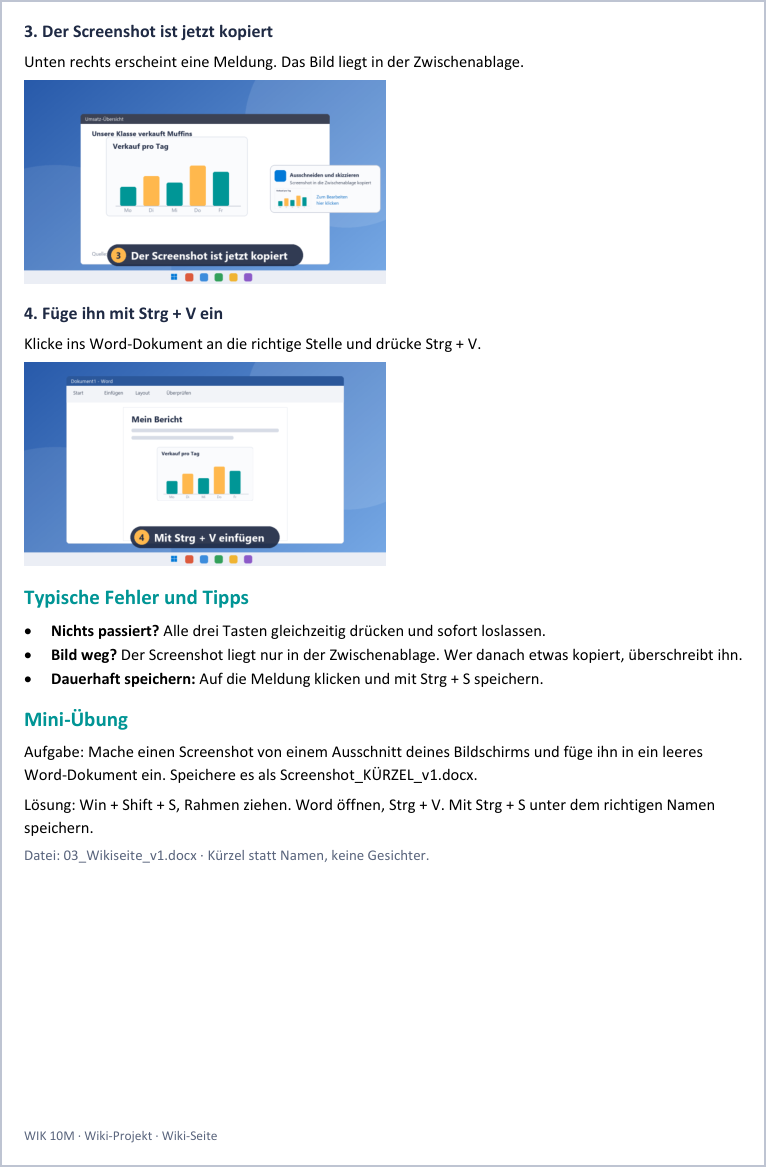
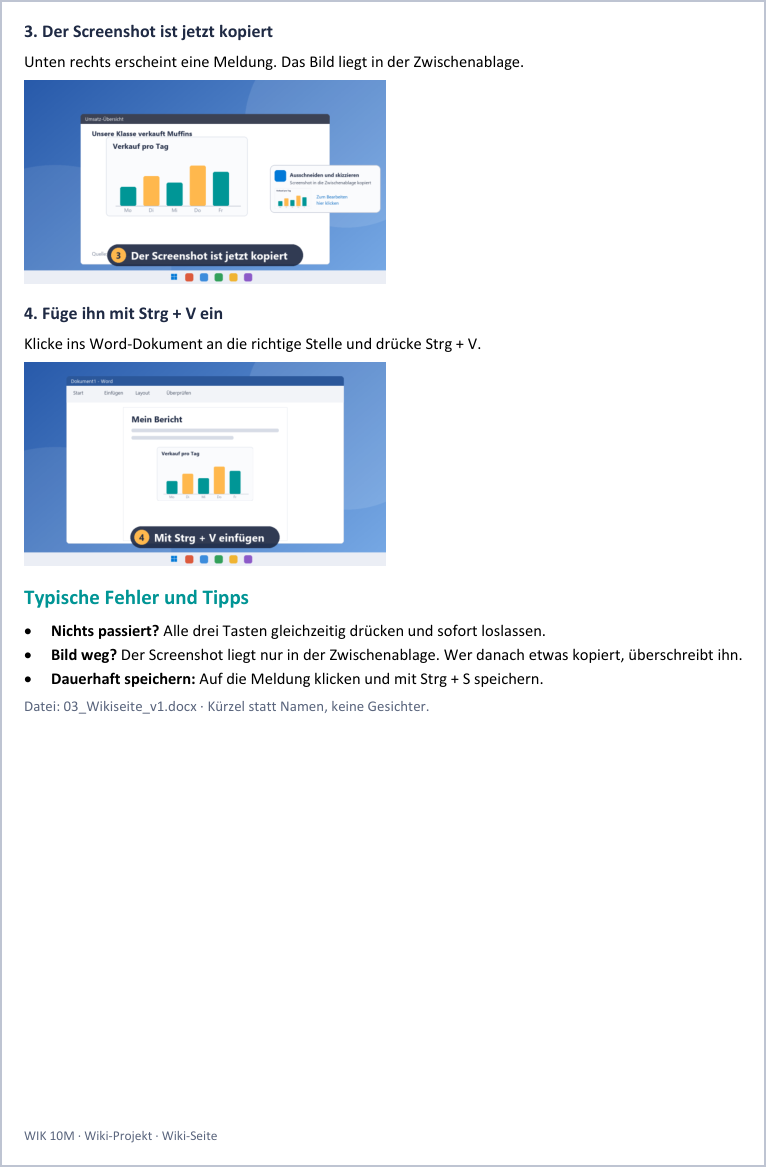
Mini-Übung entfernt: Wiki-Seiten, Vorlage und Beispiel ohne Übungsteil

diff --git a/grundlagen/video-aufnehmen-und-bearbeiten.html b/grundlagen/video-aufnehmen-und-bearbeiten.html
@@ -51,7 +51,7 @@
 <span>1 Aufnehmen</span><i>→</i><span>2 Kürzen</span><i>→</i><span>3 Text einblenden</span><i>→</i><span>4 Als MP4 exportieren</span>
 </div>
 
-<nav class="toc" aria-label="Inhaltsverzeichnis"><b>Inhaltsverzeichnis</b><ol><li><a href="#ueberblick">Überblick</a></li><li><a href="#programm">Welches Programm habe ich?</a></li><li><a href="#aufnehmen">Aufnehmen</a></li><li><a href="#bearbeiten">Bearbeiten</a></li><li><a href="#exportieren">Exportieren</a></li><li><a href="#probleme">Typische Probleme</a></li><li><a href="#uebung">Übung</a></li><li><a href="#siehe-auch">Siehe auch</a></li><li><a href="#belege">Einzelnachweise</a></li></ol></nav>
+<nav class="toc" aria-label="Inhaltsverzeichnis"><b>Inhaltsverzeichnis</b><ol><li><a href="#ueberblick">Überblick</a></li><li><a href="#programm">Welches Programm habe ich?</a></li><li><a href="#aufnehmen">Aufnehmen</a></li><li><a href="#bearbeiten">Bearbeiten</a></li><li><a href="#exportieren">Exportieren</a></li><li><a href="#probleme">Typische Probleme</a></li><li><a href="#siehe-auch">Siehe auch</a></li><li><a href="#belege">Einzelnachweise</a></li></ol></nav>
 
 <h2 id="programm"><span class="n">1</span> Welches Programm habe ich?</h2>
 <p>Drücke die <kbd>Windows</kbd>-Taste und tippe den Namen des Programms ein. Wenn es in der Liste erscheint, kannst du es nutzen. Probiere es vor dem Dreh kurz aus: 10 Sekunden aufnehmen, speichern, abspielen.</p>
@@ -104,15 +104,7 @@
 <li><b>Aufnahmebereich zu groß?</b> Wähle nur den Teil, den man für den Schritt braucht. Dann ist der Text lesbar.</li>
 </ul>
 
-<h2 id="uebung"><span class="n">6</span> Übung</h2>
-<p><b>Aufgabe:</b> Nimm 10 Sekunden von deinem Bildschirm auf, kürze das Video auf 5 Sekunden, blende den Text „Test“ ein und exportiere es als <code>Test_KÜRZEL_v1.mp4</code>.</p>
-<details><summary>Lösung anzeigen</summary>
-<ol><li>In PowerPoint: Einfügen → Bildschirmaufzeichnung, Bereich wählen, aufnehmen, mit <kbd>Win</kbd> + <kbd>Shift</kbd> + <kbd>Q</kbd> beenden.</li>
-<li>Video anklicken → Wiedergabe → <i>Video kürzen</i>, Ende auf 5 Sekunden ziehen.</li>
-<li>Einfügen → Textfeld „Test“, Animation → Erscheinen.</li>
-<li>Datei → Speichern. Dann Datei → Exportieren → Video erstellen → HD (720p), speichern als <code>Test_KÜRZEL_v1.mp4</code>.</li></ol></details>
-
-<h2 id="siehe-auch"><span class="n">7</span> Siehe auch</h2>
+<h2 id="siehe-auch"><span class="n">6</span> Siehe auch</h2>
 <ul>
 <li><a href="../grundlagen/video-tutorial.html">Video-Tutorial</a>: die Anforderungen</li>
 <li><a href="../grundlagen/videos-schneiden-mit-freecut.html">Videos schneiden mit FreeCut</a></li>
@@ -121,7 +113,7 @@
 <li><a class="new" href="../themen/datei-in-teams-hochladen.html" title="Noch leer: Aufgabe ansehen">Datei in Teams hochladen</a></li>
 </ul>
 
-<h2 id="belege"><span class="n">8</span> Einzelnachweise</h2>
+<h2 id="belege"><span class="n">7</span> Einzelnachweise</h2>
 <ol class="refs">
 <li><a href="https://support.microsoft.com/de-de/powerpoint/training/record-your-screen-in-powerpoint" rel="noopener">Bildschirmaufzeichnung in PowerPoint</a> – Microsoft Support</li>
 <li><a href="https://support.microsoft.com/de-de/powerpoint/trim-a-video-music-clip-or-sound-clip-in-powerpoint" rel="noopener">Kürzen eines Videos, Musik- oder Soundclips in PowerPoint</a> – Microsoft Support</li>

diff --git a/grundlagen/wiki-seite-schreiben.html b/grundlagen/wiki-seite-schreiben.html
@@ -64,7 +64,6 @@
 <tr><td><b>Video</b></td><td>Überschrift 2</td><td>Dateiname <code>02_Video_v1.mp4</code> und die Länge in Sekunden.</td></tr>
 <tr><td><b>Schritt für Schritt</b></td><td>Überschrift 2</td><td>3 bis 6 Schritte. Jeder Schritt hat eine Überschrift <b>(Überschrift 3)</b> mit Nummer, <b>1 bis 2 Sätze</b> und <b>ein Bild</b>.</td></tr>
 <tr><td><b>Typische Fehler und Tipps</b></td><td>Überschrift 2</td><td><b>Mindestens 2</b> Punkte als Aufzählung. Beginne jeden Punkt fett mit einer Frage, zum Beispiel „Nichts passiert?“.</td></tr>
-<tr><td><b>Mini-Übung</b></td><td>Überschrift 2</td><td>Eine <b>Aufgabe</b> und die <b>Lösung</b> dazu, jeweils in einem Absatz.</td></tr>
 <tr><td><b>Schlusszeile</b></td><td>Normal</td><td><i>Datei: 03_Wikiseite_v1.docx · Kürzel statt Namen, keine Gesichter.</i></td></tr>
 </table>
 
@@ -82,7 +81,7 @@
 <h2 id="beispiel"><span class="n">4</span> Beispiel</h2>
 <p>Die Beispielseite zu „Screenshot erstellen“ hat zwei Seiten und genau diesen Aufbau:</p>
 <figure class="thumb doc"><a href="assets/dok-wikiseite-beispiel-1.png"><img src="assets/dok-wikiseite-beispiel-1.png" alt="Wiki-Seite Screenshot erstellen, Seite 1 mit Titel, Kurzbeschreibung, Video und zwei Schritten" loading="lazy"></a><figcaption>Beispiel, Seite 1: Titel, Kurzbeschreibung, Video, Schritte 1 und 2.</figcaption></figure>
-<figure class="thumb doc"><a href="assets/dok-wikiseite-beispiel-2.png"><img src="assets/dok-wikiseite-beispiel-2.png" alt="Wiki-Seite Screenshot erstellen, Seite 2 mit Schritten 3 und 4, Fehlern und Mini-Übung" loading="lazy"></a><figcaption>Beispiel, Seite 2: Schritte 3 und 4, typische Fehler, Mini-Übung.</figcaption></figure>
+<figure class="thumb doc"><a href="assets/dok-wikiseite-beispiel-2.png"><img src="assets/dok-wikiseite-beispiel-2.png" alt="Wiki-Seite Screenshot erstellen, Seite 2 mit Schritten 3 und 4 und typischen Fehlern" loading="lazy"></a><figcaption>Beispiel, Seite 2: Schritte 3 und 4, typische Fehler und Tipps.</figcaption></figure>
 <p>Zum Herunterladen: <a href="../downloads/Beispiel_03_Wikiseite_v1.docx" download>Beispiel_03_Wikiseite_v1.docx</a>. Die fertig gebaute Seite im Wiki siehst du bei <a href="screenshot-erstellen.html">Screenshot erstellen</a>.</p>
 
 <h2 id="checkliste"><span class="n">5</span> Checkliste</h2>
@@ -93,7 +92,6 @@
 <li>Im Abschnitt Video stehen Dateiname und Länge.</li>
 <li>3 bis 6 Schritte, jeder mit Überschrift, 1 bis 2 Sätzen und einem Bild.</li>
 <li>Mindestens 2 typische Fehler.</li>
-<li>Eine Mini-Übung mit Aufgabe und Lösung.</li>
 <li>Höchstens 2 Seiten, Rechtschreibung geprüft.</li>
 <li>Keine Namen, Passwörter oder Gesichter in Text und Bildern.</li>
 <li>Die Datei heißt <code>03_Wikiseite_v1.docx</code> und liegt in deinem Ordner in Teams.</li>

diff --git a/grundlagen/screenshot-erstellen.html b/grundlagen/screenshot-erstellen.html
@@ -47,7 +47,7 @@
 
 <p id="ueberblick"><b>Ein Screenshot</b> (auch <i>Bildschirmfoto</i>) ist ein Bild von dem, was gerade auf dem Bildschirm zu sehen ist. Mit dem Tastenkürzel <kbd>Win</kbd> + <kbd>Shift</kbd> + <kbd>S</kbd> kannst du einen Ausschnitt aufnehmen und ihn danach in ein Dokument einfügen, zum Beispiel in <a class="new" href="../kategorie/word.html" title="Bereich Word">Word</a> oder in eine <a href="../grundlagen/screenshot-erstellen.html">Wiki-Seite</a>.</p>
 
-<nav class="toc" aria-label="Inhaltsverzeichnis"><b>Inhaltsverzeichnis</b><ol><li><a href="#ueberblick">Überblick</a></li><li><a href="#voraussetzungen">Voraussetzungen</a></li><li><a href="#anleitung">Anleitung</a></li><li><a href="#fehler">Typische Fehler</a></li><li><a href="#uebung">Übung</a></li><li><a href="#siehe-auch">Siehe auch</a></li></ol></nav>
+<nav class="toc" aria-label="Inhaltsverzeichnis"><b>Inhaltsverzeichnis</b><ol><li><a href="#ueberblick">Überblick</a></li><li><a href="#voraussetzungen">Voraussetzungen</a></li><li><a href="#anleitung">Anleitung</a></li><li><a href="#fehler">Typische Fehler</a></li><li><a href="#siehe-auch">Siehe auch</a></li></ol></nav>
 
 <h2 id="voraussetzungen"><span class="n">1</span> Voraussetzungen</h2>
 <p>Du brauchst einen Windows-Rechner (Windows 10 oder 11) und etwas, das du fotografieren willst. Mehr nicht.</p>
@@ -74,14 +74,7 @@
 <li><b>Datenschutz:</b> Auf dem Screenshot dürfen keine Namen, Passwörter oder Gesichter zu sehen sein.</li>
 </ul>
 
-<h2 id="uebung"><span class="n">4</span> Übung</h2>
-<p><b>Aufgabe:</b> Mache einen Screenshot von einem Ausschnitt deines Bildschirms und füge ihn in ein leeres Word-Dokument ein. Speichere es als <code>Screenshot_KÜRZEL_v1.docx</code>.</p>
-<details><summary>Lösung anzeigen</summary>
-<ol><li><kbd>Win</kbd> + <kbd>Shift</kbd> + <kbd>S</kbd> drücken und Rahmen ziehen.</li>
-<li>Word öffnen, ins leere Dokument klicken, <kbd>Strg</kbd> + <kbd>V</kbd>.</li>
-<li>Mit <kbd>Strg</kbd> + <kbd>S</kbd> unter dem richtigen Namen speichern (Kürzel statt Namen).</li></ol></details>
-
-<h2 id="siehe-auch"><span class="n">5</span> Siehe auch</h2>
+<h2 id="siehe-auch"><span class="n">4</span> Siehe auch</h2>
 <ul>
 <li><a href="../grundlagen/video-aufnehmen-und-bearbeiten.html">Video aufnehmen und bearbeiten</a></li>
 <li><a class="new" href="../themen/datei-richtig-benennen.html" title="Noch leer: Aufgabe ansehen">Datei richtig benennen</a></li>

diff --git a/themen/kopieren-ausschneiden-einfuegen.html b/themen/kopieren-ausschneiden-einfuegen.html
@@ -56,7 +56,7 @@
 <li>Thema in die Liste „Wiki-Status“ eingetragen</li>
 <li>Video-Planung geschrieben: <code>01_Videoplanung_v1.docx</code></li>
 <li>Kurzes Erklärvideo, ohne Ton, mit Texteinblendungen: <code>02_Video_v1.mp4</code></li>
-<li>Wiki-Seite nach Vorlage mit Kurzbeschreibung, Schritten mit Bildern, mindestens zwei typischen Fehlern und einer Mini-Übung mit Lösung: <code>03_Wikiseite_v1.docx</code></li>
+<li>Wiki-Seite nach Vorlage mit Kurzbeschreibung, Schritten mit Bildern, mindestens zwei typischen Fehlern: <code>03_Wikiseite_v1.docx</code></li>
 <li>Kürzel statt Namen, keine Gesichter, keine Passwörter im Bild</li>
 <li>In Teams im Ordner WIKI abgelegt, zum Beispiel <code>WIKI/Windows_Kopieren-Einfuegen_AB-CD/</code></li>
 <li>Status in der Liste auf „fertig“ gesetzt</li>

diff --git a/themen/ordner-anlegen-und-datei-speichern.html b/themen/ordner-anlegen-und-datei-speichern.html
@@ -56,7 +56,7 @@
 <li>Thema in die Liste „Wiki-Status“ eingetragen</li>
 <li>Video-Planung geschrieben: <code>01_Videoplanung_v1.docx</code></li>
 <li>Kurzes Erklärvideo, ohne Ton, mit Texteinblendungen: <code>02_Video_v1.mp4</code></li>
-<li>Wiki-Seite nach Vorlage mit Kurzbeschreibung, Schritten mit Bildern, mindestens zwei typischen Fehlern und einer Mini-Übung mit Lösung: <code>03_Wikiseite_v1.docx</code></li>
+<li>Wiki-Seite nach Vorlage mit Kurzbeschreibung, Schritten mit Bildern, mindestens zwei typischen Fehlern: <code>03_Wikiseite_v1.docx</code></li>
 <li>Kürzel statt Namen, keine Gesichter, keine Passwörter im Bild</li>
 <li>In Teams im Ordner WIKI abgelegt, zum Beispiel <code>WIKI/Windows_Ordner-speichern_AB-CD/</code></li>
 <li>Status in der Liste auf „fertig“ gesetzt</li>

diff --git a/themen/zellen-formatieren.html b/themen/zellen-formatieren.html
@@ -56,7 +56,7 @@
 <li>Thema in die Liste „Wiki-Status“ eingetragen</li>
 <li>Video-Planung geschrieben: <code>01_Videoplanung_v1.docx</code></li>
 <li>Kurzes Erklärvideo, ohne Ton, mit Texteinblendungen: <code>02_Video_v1.mp4</code></li>
-<li>Wiki-Seite nach Vorlage mit Kurzbeschreibung, Schritten mit Bildern, mindestens zwei typischen Fehlern und einer Mini-Übung mit Lösung: <code>03_Wikiseite_v1.docx</code></li>
+<li>Wiki-Seite nach Vorlage mit Kurzbeschreibung, Schritten mit Bildern, mindestens zwei typischen Fehlern: <code>03_Wikiseite_v1.docx</code></li>
 <li>Kürzel statt Namen, keine Gesichter, keine Passwörter im Bild</li>
 <li>In Teams im Ordner WIKI abgelegt, zum Beispiel <code>WIKI/Excel_Zellen-formatieren_AB-CD/</code></li>
 <li>Status in der Liste auf „fertig“ gesetzt</li>

diff --git a/themen/neue-folie-und-layout.html b/themen/neue-folie-und-layout.html
@@ -56,7 +56,7 @@
 <li>Thema in die Liste „Wiki-Status“ eingetragen</li>
 <li>Video-Planung geschrieben: <code>01_Videoplanung_v1.docx</code></li>
 <li>Kurzes Erklärvideo, ohne Ton, mit Texteinblendungen: <code>02_Video_v1.mp4</code></li>
-<li>Wiki-Seite nach Vorlage mit Kurzbeschreibung, Schritten mit Bildern, mindestens zwei typischen Fehlern und einer Mini-Übung mit Lösung: <code>03_Wikiseite_v1.docx</code></li>
+<li>Wiki-Seite nach Vorlage mit Kurzbeschreibung, Schritten mit Bildern, mindestens zwei typischen Fehlern: <code>03_Wikiseite_v1.docx</code></li>
 <li>Kürzel statt Namen, keine Gesichter, keine Passwörter im Bild</li>
 <li>In Teams im Ordner WIKI abgelegt, zum Beispiel <code>WIKI/PowerPoint_Neue-Folie_AB-CD/</code></li>
 <li>Status in der Liste auf „fertig“ gesetzt</li>

diff --git a/themen/animation-erscheinen.html b/themen/animation-erscheinen.html
@@ -56,7 +56,7 @@
 <li>Thema in die Liste „Wiki-Status“ eingetragen</li>
 <li>Video-Planung geschrieben: <code>01_Videoplanung_v1.docx</code></li>
 <li>Kurzes Erklärvideo, ohne Ton, mit Texteinblendungen: <code>02_Video_v1.mp4</code></li>
-<li>Wiki-Seite nach Vorlage mit Kurzbeschreibung, Schritten mit Bildern, mindestens zwei typischen Fehlern und einer Mini-Übung mit Lösung: <code>03_Wikiseite_v1.docx</code></li>
+<li>Wiki-Seite nach Vorlage mit Kurzbeschreibung, Schritten mit Bildern, mindestens zwei typischen Fehlern: <code>03_Wikiseite_v1.docx</code></li>
 <li>Kürzel statt Namen, keine Gesichter, keine Passwörter im Bild</li>
 <li>In Teams im Ordner WIKI abgelegt, zum Beispiel <code>WIKI/PowerPoint_Animation_AB-CD/</code></li>
 <li>Status in der Liste auf „fertig“ gesetzt</li>

diff --git a/themen/datei-in-teams-hochladen.html b/themen/datei-in-teams-hochladen.html
@@ -56,7 +56,7 @@
 <li>Thema in die Liste „Wiki-Status“ eingetragen</li>
 <li>Video-Planung geschrieben: <code>01_Videoplanung_v1.docx</code></li>
 <li>Kurzes Erklärvideo, ohne Ton, mit Texteinblendungen: <code>02_Video_v1.mp4</code></li>
-<li>Wiki-Seite nach Vorlage mit Kurzbeschreibung, Schritten mit Bildern, mindestens zwei typischen Fehlern und einer Mini-Übung mit Lösung: <code>03_Wikiseite_v1.docx</code></li>
+<li>Wiki-Seite nach Vorlage mit Kurzbeschreibung, Schritten mit Bildern, mindestens zwei typischen Fehlern: <code>03_Wikiseite_v1.docx</code></li>
 <li>Kürzel statt Namen, keine Gesichter, keine Passwörter im Bild</li>
 <li>In Teams im Ordner WIKI abgelegt, zum Beispiel <code>WIKI/Windows_Teams-Upload_AB-CD/</code></li>
 <li>Status in der Liste auf „fertig“ gesetzt</li>

diff --git a/themen/daten-eingeben-und-spalten-anpassen.html b/themen/daten-eingeben-und-spalten-anpassen.html
@@ -56,7 +56,7 @@
 <li>Thema in die Liste „Wiki-Status“ eingetragen</li>
 <li>Video-Planung geschrieben: <code>01_Videoplanung_v1.docx</code></li>
 <li>Kurzes Erklärvideo, ohne Ton, mit Texteinblendungen: <code>02_Video_v1.mp4</code></li>
-<li>Wiki-Seite nach Vorlage mit Kurzbeschreibung, Schritten mit Bildern, mindestens zwei typischen Fehlern und einer Mini-Übung mit Lösung: <code>03_Wikiseite_v1.docx</code></li>
+<li>Wiki-Seite nach Vorlage mit Kurzbeschreibung, Schritten mit Bildern, mindestens zwei typischen Fehlern: <code>03_Wikiseite_v1.docx</code></li>
 <li>Kürzel statt Namen, keine Gesichter, keine Passwörter im Bild</li>
 <li>In Teams im Ordner WIKI abgelegt, zum Beispiel <code>WIKI/Excel_Daten-eingeben_AB-CD/</code></li>
 <li>Status in der Liste auf „fertig“ gesetzt</li>

diff --git a/themen/folienuebergang.html b/themen/folienuebergang.html
@@ -56,7 +56,7 @@
 <li>Thema in die Liste „Wiki-Status“ eingetragen</li>
 <li>Video-Planung geschrieben: <code>01_Videoplanung_v1.docx</code></li>
 <li>Kurzes Erklärvideo, ohne Ton, mit Texteinblendungen: <code>02_Video_v1.mp4</code></li>
-<li>Wiki-Seite nach Vorlage mit Kurzbeschreibung, Schritten mit Bildern, mindestens zwei typischen Fehlern und einer Mini-Übung mit Lösung: <code>03_Wikiseite_v1.docx</code></li>
+<li>Wiki-Seite nach Vorlage mit Kurzbeschreibung, Schritten mit Bildern, mindestens zwei typischen Fehlern: <code>03_Wikiseite_v1.docx</code></li>
 <li>Kürzel statt Namen, keine Gesichter, keine Passwörter im Bild</li>
 <li>In Teams im Ordner WIKI abgelegt, zum Beispiel <code>WIKI/PowerPoint_Uebergang_AB-CD/</code></li>
 <li>Status in der Liste auf „fertig“ gesetzt</li>

diff --git a/themen/text-und-bild-auf-der-folie.html b/themen/text-und-bild-auf-der-folie.html
@@ -56,7 +56,7 @@
 <li>Thema in die Liste „Wiki-Status“ eingetragen</li>
 <li>Video-Planung geschrieben: <code>01_Videoplanung_v1.docx</code></li>
 <li>Kurzes Erklärvideo, ohne Ton, mit Texteinblendungen: <code>02_Video_v1.mp4</code></li>
-<li>Wiki-Seite nach Vorlage mit Kurzbeschreibung, Schritten mit Bildern, mindestens zwei typischen Fehlern und einer Mini-Übung mit Lösung: <code>03_Wikiseite_v1.docx</code></li>
+<li>Wiki-Seite nach Vorlage mit Kurzbeschreibung, Schritten mit Bildern, mindestens zwei typischen Fehlern: <code>03_Wikiseite_v1.docx</code></li>
 <li>Kürzel statt Namen, keine Gesichter, keine Passwörter im Bild</li>
 <li>In Teams im Ordner WIKI abgelegt, zum Beispiel <code>WIKI/PowerPoint_Text-Bild_AB-CD/</code></li>
 <li>Status in der Liste auf „fertig“ gesetzt</li>
